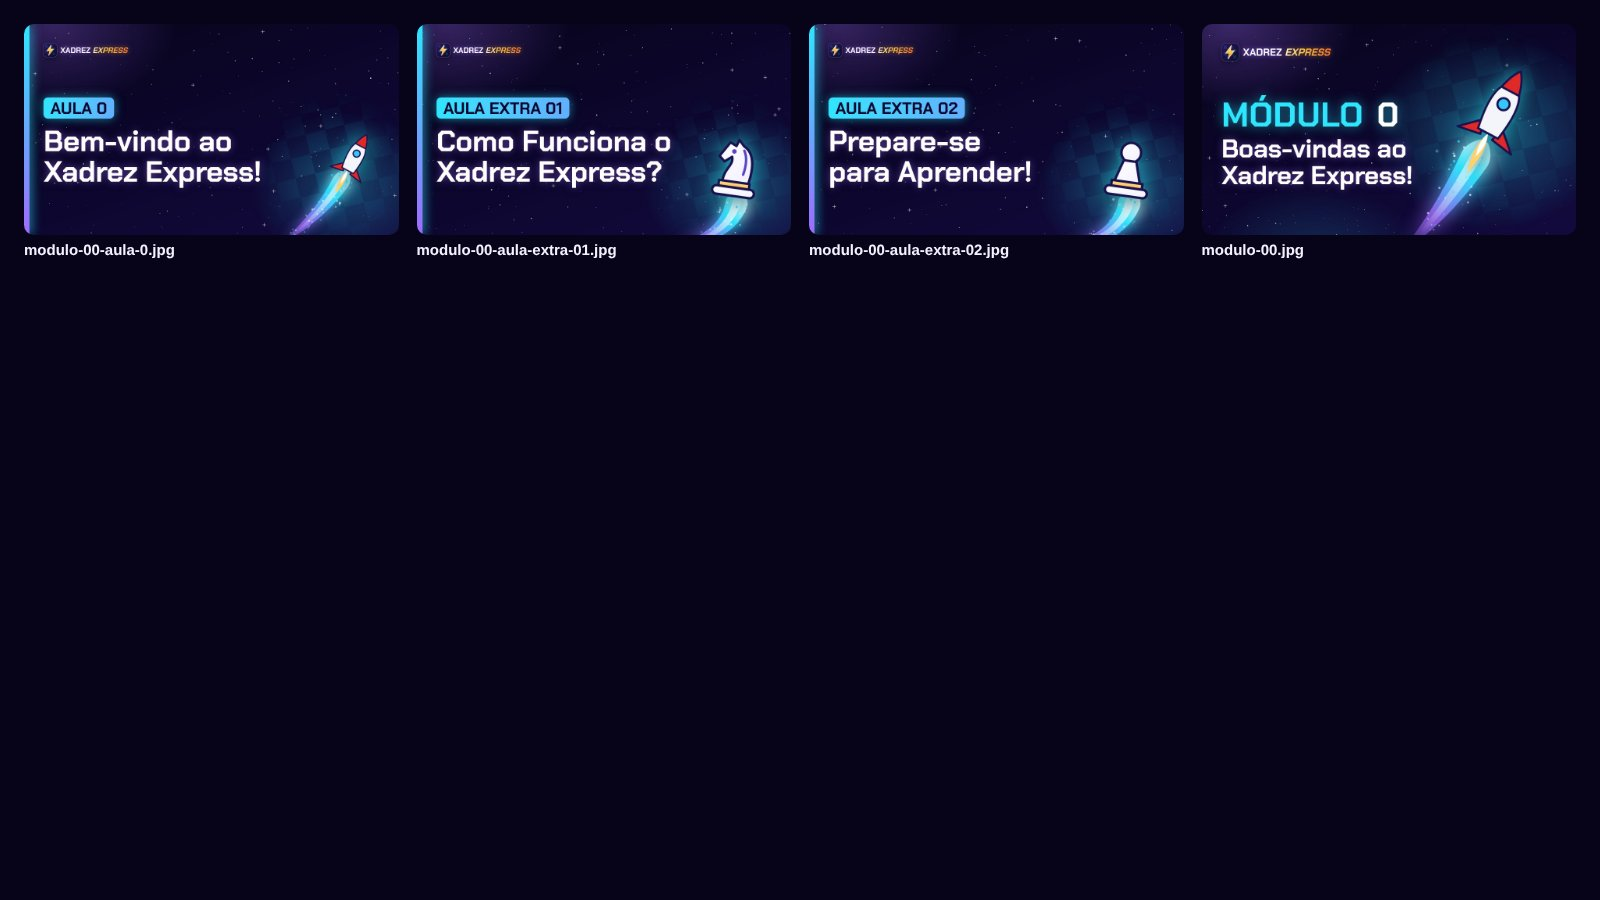
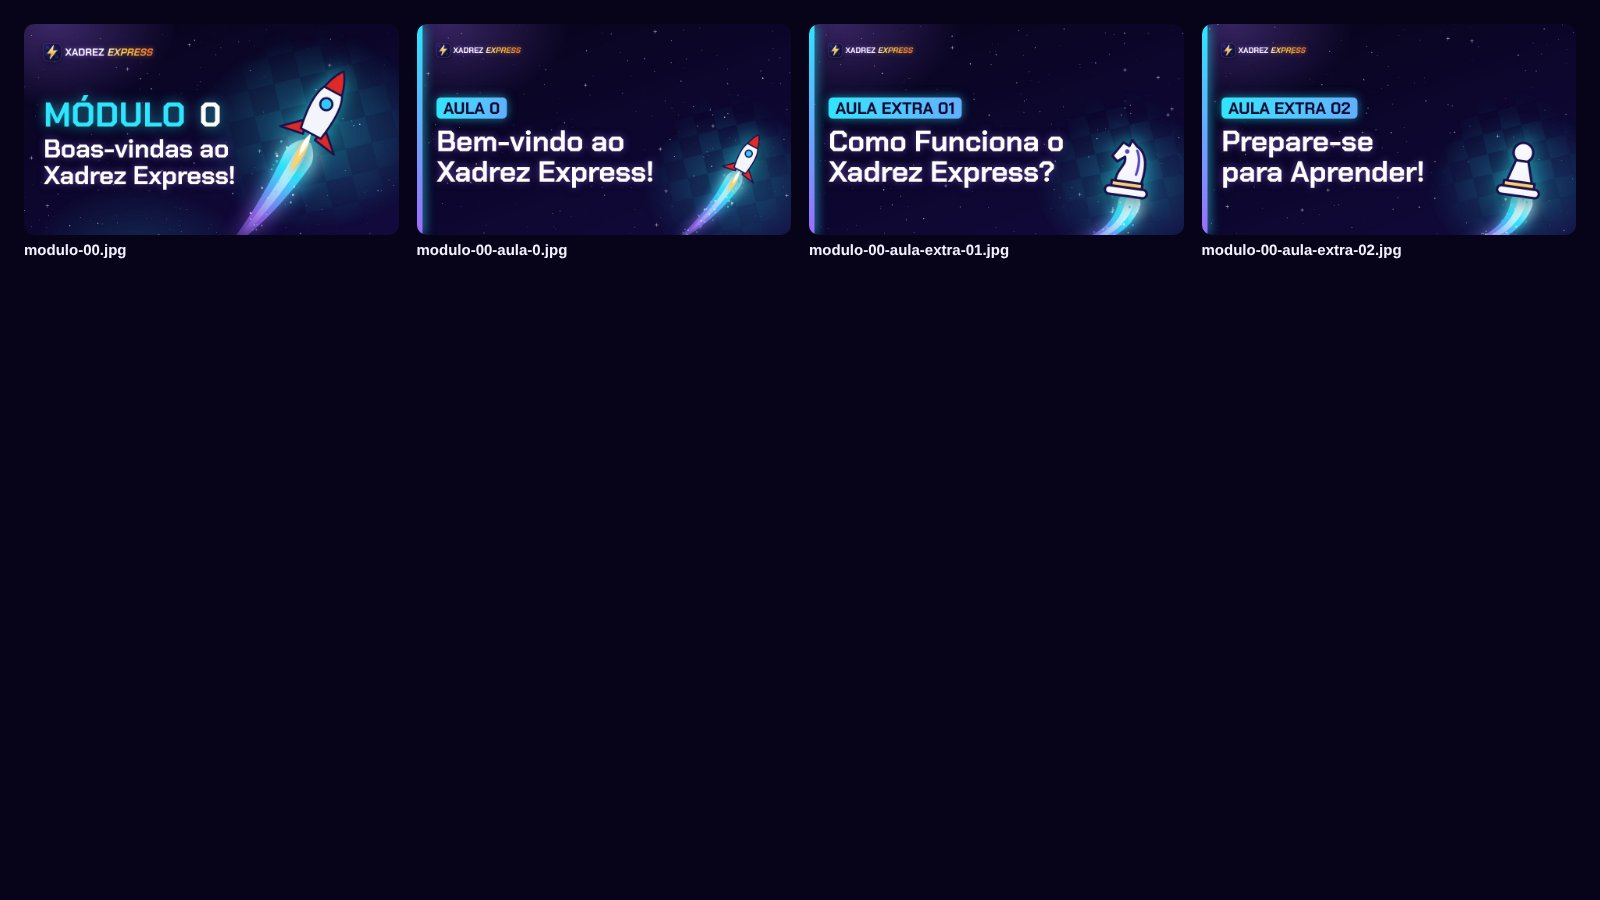
Capas: folha de miniaturas na ordem do curso e sem sobra
Claude-Session: https://claude.ai/code/session_01TiCEz9v6sPBGKMhfiJviFX

diff --git a/capas/gera.js b/capas/gera.js
@@ -64,13 +64,14 @@ const fatia = t => t.toLowerCase().normalize('NFD').replace(/[̀-ͯ]/g, '').repl
 
   // a folha de miniaturas
   if (!amostra) {
-    const todas = fs.readdirSync(SAIDA).filter(a => /^modulo-.*\.jpg$/.test(a)).sort();
+    const feitas = fila.map(c => c.arquivo);     // na ordem do curso: o módulo e, depois, as aulas dele
+    const todas = feitas.filter(a => fs.existsSync(path.join(SAIDA, a)));
     await pag.setContent('<style>body{margin:0;padding:24px;background:#07041a;color:#f4f1ff;font:600 15px sans-serif;display:grid;grid-template-columns:repeat(4,1fr);gap:18px;width:1600px;box-sizing:border-box}' +
       'img{width:100%;border-radius:10px;display:block;margin-bottom:6px}</style>' +
       todas.map(a => '<div><img src="' + url + 'saida/' + a + '">' + a + '</div>').join(''));
     await pag.setViewportSize({ width: 1600, height: 900 });
     await pag.waitForLoadState('networkidle');
-    await pag.screenshot({ path: path.join(SAIDA, 'folha-miniaturas.jpg'), type: 'jpeg', quality: 85, fullPage: true });
+    await pag.locator('body').screenshot({ path: path.join(SAIDA, 'folha-miniaturas.jpg'), type: 'jpeg', quality: 85 });
     console.log('folha-miniaturas.jpg (' + todas.length + ' capas)');
   }
   await nav.close(); srv.close();
